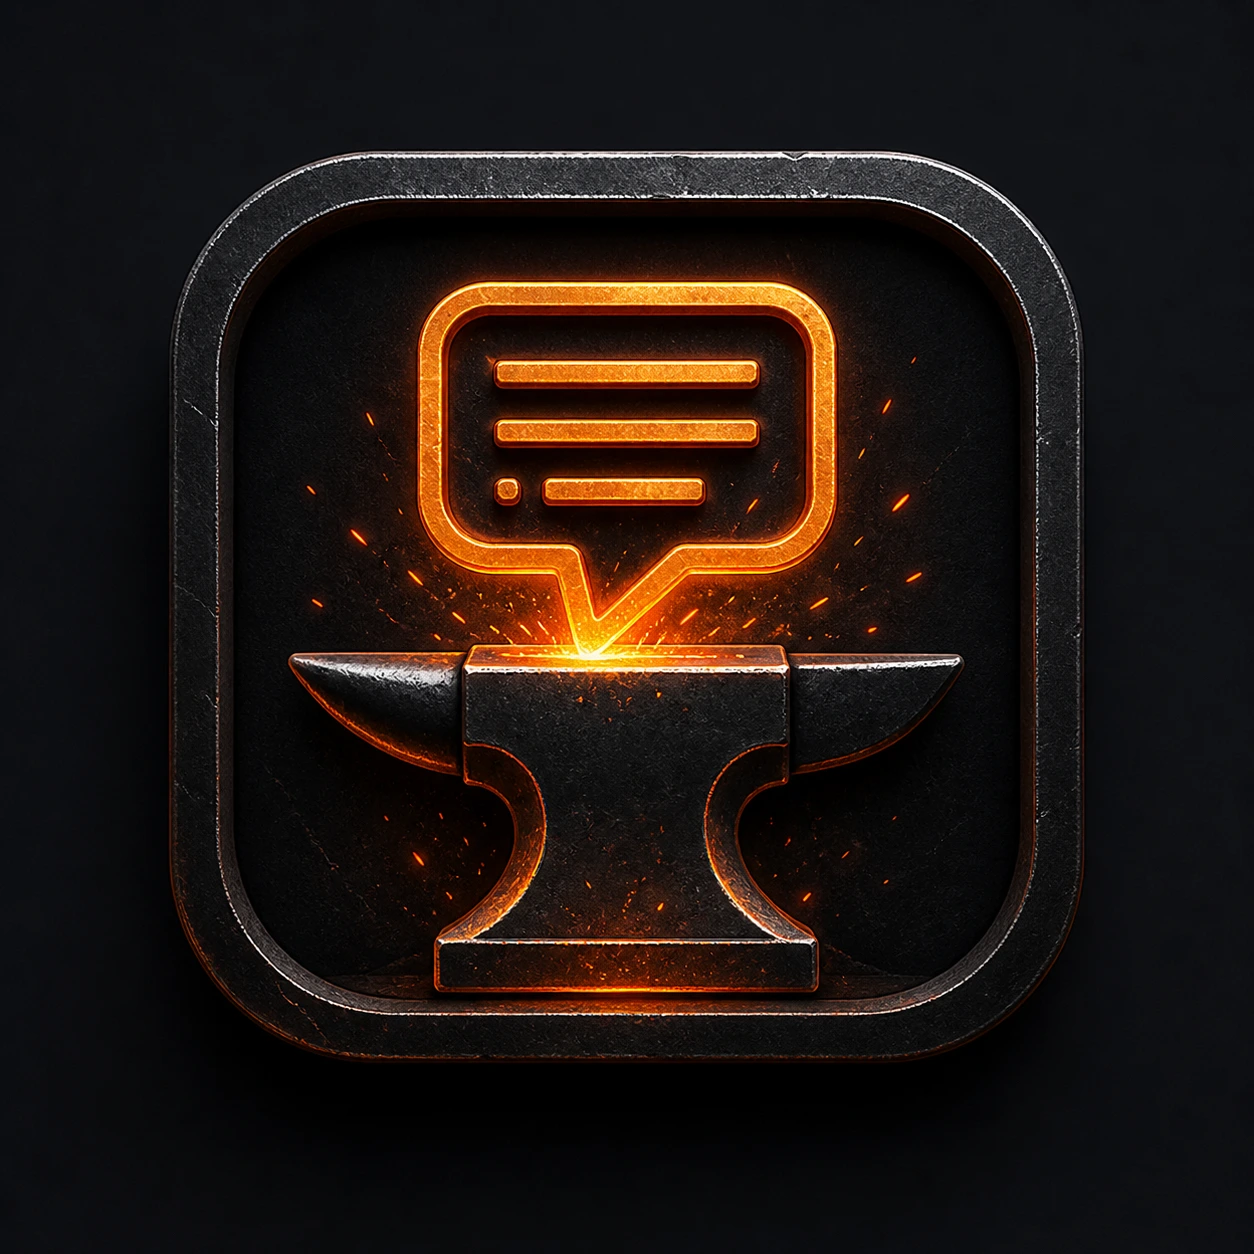
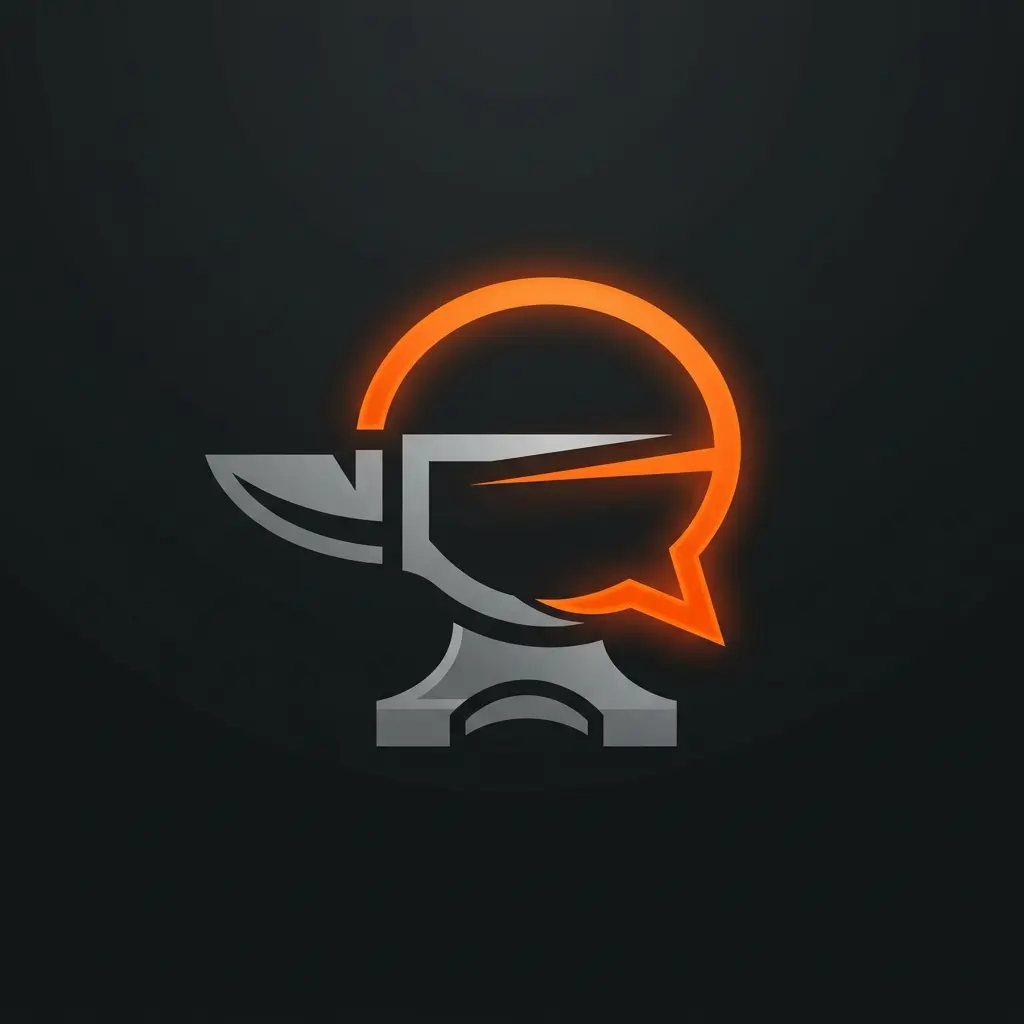
commit

diff --git a/src/styles/public.css b/src/styles/public.css
@@ -2191,8 +2191,8 @@
 
 .public-layout--home-forge .landing-hero {
   position: relative;
-  gap: clamp(24px, 4vw, 42px);
-  padding: clamp(24px, 4vw, 48px);
+  gap: clamp(16px, 3vw, 32px);
+  padding: clamp(20px, 3vw, 36px);
   overflow: hidden;
   border-color: var(--forge-border);
   background:
@@ -3205,8 +3205,8 @@
 }
 
 .public-layout--home-forge .landing-hero {
-  gap: clamp(28px, 4.2vw, 56px);
-  padding: clamp(28px, 4.4vw, 56px);
+  gap: clamp(20px, 3.5vw, 40px);
+  padding: clamp(24px, 3.5vw, 40px);
 }
 
 .public-layout--home-forge .landing-hero__copy h1 {
@@ -3214,8 +3214,8 @@
 }
 
 .public-layout--home-forge .hero-transformation-preview__frame {
-  gap: var(--space-5);
-  padding: clamp(20px, 2.4vw, 30px);
+  gap: var(--space-4);
+  padding: clamp(12px, 2vw, 20px);
   border-radius: 20px;
 }
 
@@ -5199,24 +5199,29 @@
 }
 
 @keyframes forgePulse {
-  0%, 100% { opacity: 0.3; transform: scale(0.98); }
-  50% { opacity: 0.6; transform: scale(1.02); }
+  0%, 100% { opacity: 0.4; transform: scale(0.95); }
+  50% { opacity: 0.85; transform: scale(1.05); }
 }
 
 @keyframes emberFloat {
-  0% { opacity: 0; transform: translateY(15px); }
-  30%, 70% { opacity: 0.35; }
-  100% { opacity: 0; transform: translateY(-35px); }
+  0% { opacity: 0; transform: translateY(20px) scale(0.8); }
+  25%, 75% { opacity: 0.8; }
+  100% { opacity: 0; transform: translateY(-50px) scale(1.2); }
 }
 
 @keyframes blueAura {
-  0%, 100% { opacity: 0.2; transform: translateX(-2%); }
-  50% { opacity: 0.4; transform: translateX(2%); }
+  0%, 100% { opacity: 0.4; transform: translateX(-3%); }
+  50% { opacity: 0.7; transform: translateX(3%); }
 }
 
 @keyframes subtleShine {
-  0%, 100% { opacity: 0.1; transform: translateX(-5%); }
-  50% { opacity: 0.25; transform: translateX(5%); }
+  0%, 100% { opacity: 0.15; transform: translateX(-10%); }
+  50% { opacity: 0.4; transform: translateX(10%); }
+}
+
+@keyframes heatShimmer {
+  0%, 100% { transform: scale(1) translateY(0); opacity: 0.6; }
+  50% { transform: scale(1.02) translateY(-2px); opacity: 0.9; }
 }
 
 .hero-art-frame {
@@ -5231,9 +5236,10 @@
   z-index: 0;
   border-radius: inherit;
   background: 
-    radial-gradient(circle at 20% 50%, rgba(255, 122, 26, 0.12) 0%, transparent 50%),
-    radial-gradient(circle at 80% 60%, rgba(77, 163, 255, 0.08) 0%, transparent 50%);
-  animation: forgePulse 6s ease-in-out infinite, blueAura 8s ease-in-out infinite;
+    radial-gradient(circle at 20% 50%, rgba(255, 122, 26, 0.25) 0%, transparent 50%),
+    radial-gradient(circle at 80% 60%, rgba(77, 163, 255, 0.2) 0%, transparent 50%),
+    radial-gradient(circle at 50% 50%, rgba(255, 150, 50, 0.15) 0%, transparent 40%);
+  animation: forgePulse 5s ease-in-out infinite, blueAura 7s ease-in-out infinite, heatShimmer 3s infinite alternate;
   pointer-events: none;
 }
 
@@ -5244,10 +5250,11 @@
   z-index: 4;
   border-radius: inherit;
   background: 
-    radial-gradient(circle, rgba(255, 177, 74, 0.8) 0 1px, transparent 2px) 15% 85% / 120px 140px,
-    radial-gradient(circle, rgba(255, 122, 26, 0.5) 0 1px, transparent 2px) 65% 95% / 170px 190px,
-    linear-gradient(110deg, transparent 0%, transparent 30%, rgba(255,255,255,0.06) 45%, transparent 60%, transparent 100%);
-  animation: emberFloat 7s ease-in-out infinite, subtleShine 5s ease-in-out infinite;
+    radial-gradient(circle, rgba(255, 177, 74, 1) 0 1.5px, transparent 3px) 15% 85% / 90px 110px,
+    radial-gradient(circle, rgba(255, 122, 26, 0.9) 0 2px, transparent 4px) 65% 95% / 140px 160px,
+    radial-gradient(circle, rgba(255, 200, 100, 0.8) 0 1.5px, transparent 3px) 40% 70% / 120px 130px,
+    linear-gradient(110deg, transparent 0%, transparent 30%, rgba(255,255,255,0.08) 45%, transparent 60%, transparent 100%);
+  animation: emberFloat 6s ease-in-out infinite, subtleShine 4s ease-in-out infinite;
   pointer-events: none;
 }
 
@@ -5259,42 +5266,43 @@
   }
 }
 
-/* --- Ajuste Logo Header e Footer --- */
-.public-brand__mark {
+/* --- Brand Logo System --- */
+.brand-logo {
+  display: block;
+  text-decoration: none;
+  line-height: 1;
+}
+
+.brand-logo__image {
   display: block;
   width: auto;
+  object-fit: contain;
+  margin: 0;
+  padding: 0;
+}
+
+.brand-logo--header {
   height: 28px;
-  object-fit: contain;
-  flex: 0 0 auto;
-  line-height: 1;
 }
 
 @media (min-width: 900px) {
-  .public-brand__mark {
-    height: 32px;
+  .brand-logo--header {
+    height: 36px;
   }
 }
 
-.public-footer__brand-logo {
-  display: flex;
-  align-items: center;
-  gap: var(--space-3);
-  margin-bottom: var(--space-3);
-}
-
-.public-footer__brand-mark {
-  display: block;
-  width: auto;
-  height: 26px;
-  object-fit: contain;
-  flex: 0 0 auto;
-  line-height: 1;
+.brand-logo--footer {
+  height: 24px;
 }
 
 @media (min-width: 900px) {
-  .public-footer__brand-mark {
-    height: 30px;
+  .brand-logo--footer {
+    height: 28px;
   }
+}
+
+.brand-logo--sidebar {
+  height: 28px;
 }
 
 @media (min-width: 980px) {

diff --git a/src/components/navigation/PublicHeader.jsx b/src/components/navigation/PublicHeader.jsx
@@ -1,6 +1,6 @@
 import { useState } from 'react'
 import { Link, useLocation } from 'react-router-dom'
-import { APP_NAME, BRAND_MARK_SRC } from '../../constants/app'
+import { APP_NAME, BRAND_LOGO_HORIZONTAL_SRC } from '../../constants/app'
 import { useAuth } from '../../hooks/useAuth'
 
 const forgeHomeNavItems = [
@@ -80,17 +80,13 @@ function PublicHeader({ isHomeRoute = false }) {
   return (
     <header className={headerClassName}>
       <div className="public-header__inner">
-        <Link to="/" className="public-brand" aria-label={APP_NAME}>
+        <Link to="/" className="brand-logo" aria-label={APP_NAME}>
           <img
-            src={BRAND_MARK_SRC}
-            alt="ProdForge"
-            className="public-brand__mark"
+            src={BRAND_LOGO_HORIZONTAL_SRC}
+            alt={APP_NAME}
+            className="brand-logo__image brand-logo--header"
             loading="eager"
           />
-          <div className="public-brand__copy">
-            <span className="public-brand__name">{APP_NAME}</span>
-            {isHomeRoute ? <span className="public-brand__tagline">Forja de user stories</span> : null}
-          </div>
         </Link>
 
         <nav className="public-header__nav" aria-label="Navegação pública">

diff --git a/src/components/workspace/WorkspaceSidebar.jsx b/src/components/workspace/WorkspaceSidebar.jsx
@@ -1,5 +1,5 @@
 import { Link, NavLink, useLocation, useNavigate } from 'react-router-dom'
-import { APP_NAME, BRAND_MARK_SRC } from '../../constants/app'
+import { APP_NAME, BRAND_LOGO_HORIZONTAL_SRC } from '../../constants/app'
 import { useAuth } from '../../hooks/useAuth'
 import { useLearningProgress } from '../../hooks/useLearningProgress'
 
@@ -32,16 +32,12 @@ function WorkspaceSidebar({ isOpen, onClose }) {
   return (
     <aside className={`workspace-sidebar ${isOpen ? 'workspace-sidebar--open' : ''}`}>
       <div className="workspace-sidebar__header">
-        <Link to="/tool" className="workspace-sidebar__brand" onClick={onClose}>
+        <Link to="/tool" className="brand-logo workspace-sidebar__brand" onClick={onClose} aria-label={APP_NAME}>
           <img
-            src={BRAND_MARK_SRC}
-            alt="ProdForge"
-            className="workspace-sidebar__brand-mark"
+            src={BRAND_LOGO_HORIZONTAL_SRC}
+            alt={APP_NAME}
+            className="brand-logo__image brand-logo--sidebar"
           />
-          <div className="workspace-sidebar__brand-copy">
-            <p className="workspace-sidebar__brand-name">{APP_NAME}</p>
-            <p className="workspace-sidebar__brand-caption">Workspace para PMs e POs</p>
-          </div>
         </Link>
 
         <button

diff --git a/src/components/navigation/PublicFooter.jsx b/src/components/navigation/PublicFooter.jsx
@@ -1,5 +1,5 @@
 import { Link } from 'react-router-dom'
-import { APP_NAME, BRAND_MARK_SRC } from '../../constants/app'
+import { APP_NAME, BRAND_LOGO_HORIZONTAL_SRC } from '../../constants/app'
 import { getLearningGuidesBySlugs } from '../../content/learningContent'
 import { useAuth } from '../../hooks/useAuth'
 
@@ -31,14 +31,13 @@ function PublicFooter({ isHomeRoute = false }) {
     <footer className={footerClassName}>
       <div className="public-footer__inner">
         <div className="public-footer__brand">
-          <div className="public-footer__brand-logo">
+          <div className="brand-logo">
             <img
-              src={BRAND_MARK_SRC}
-              alt="ProdForge"
-              className="public-footer__brand-mark"
+              src={BRAND_LOGO_HORIZONTAL_SRC}
+              alt={APP_NAME}
+              className="brand-logo__image brand-logo--footer"
               loading="lazy"
             />
-            <span className="public-footer__brand-name">{APP_NAME}</span>
           </div>
           <p className="public-footer__brand-statement">{brandStatement}</p>
           <Link to={user ? '/tool' : '/signup'} className={footerCtaClassName}>

diff --git a/src/constants/app.js b/src/constants/app.js
@@ -1,5 +1,6 @@
 export const APP_NAME = 'ProdForge'
 export const BRAND_MARK_SRC = '/images/prodforge/brand/prodforge-brand-mark.webp'
+export const BRAND_LOGO_HORIZONTAL_SRC = '/images/prodforge/brand/prodforge-logo-horizontal.webp'
 export const FREE_PLAN_NAME = 'Free'
 export const PRO_PLAN_NAME = 'Pro'
 export const FREE_GENERATION_LIMIT = 10